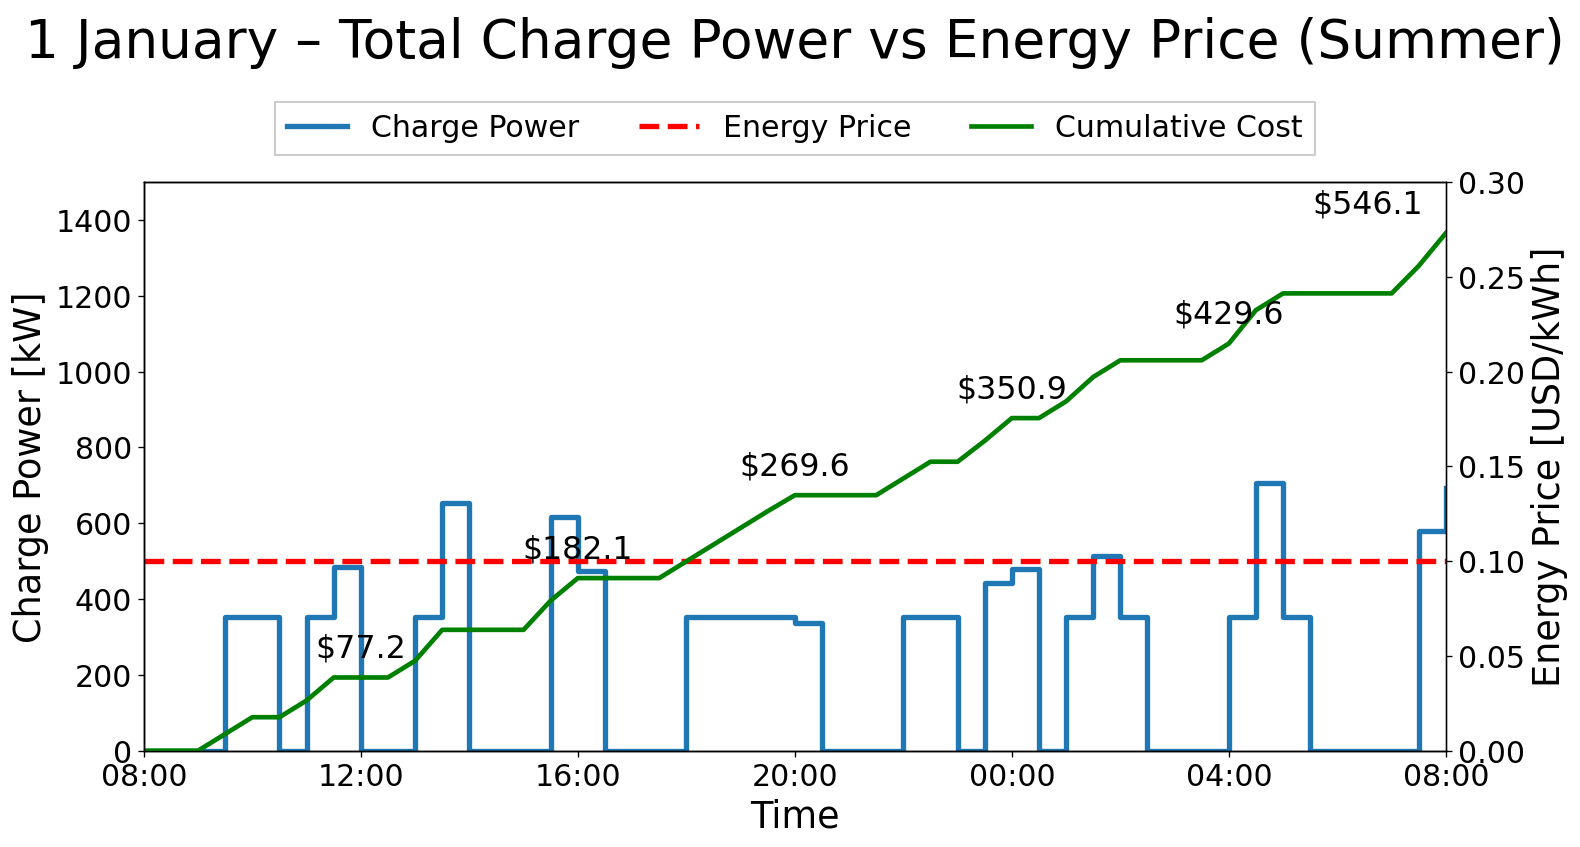
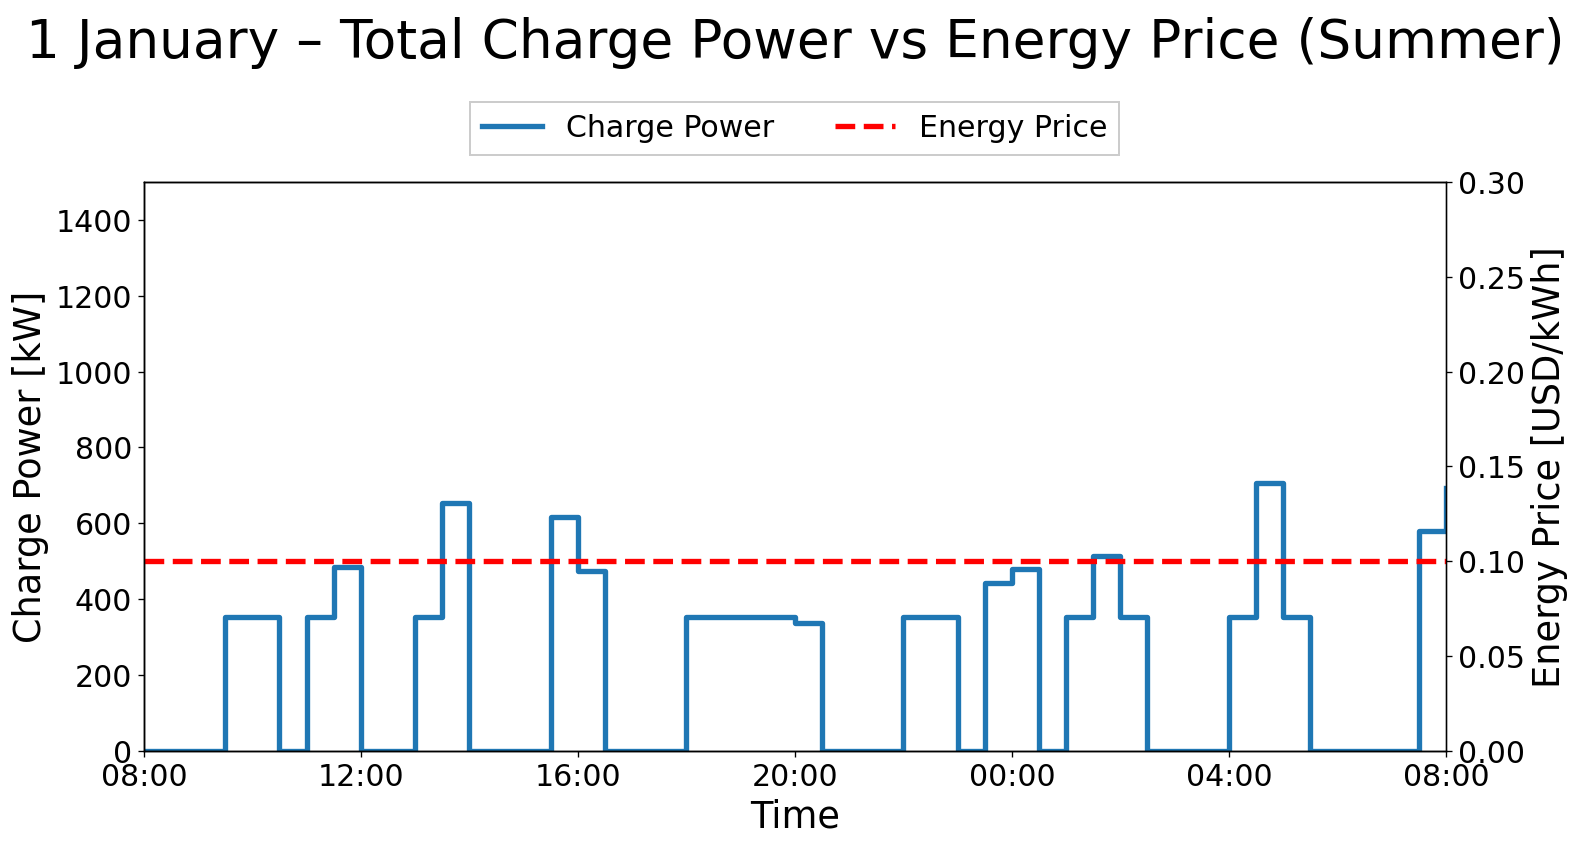
actualizacion json plotter

diff --git a/json_plotter.py b/json_plotter.py
@@ -504,9 +504,6 @@ class JSONPlotter:
                             .groupby("interval")["price"].mean()
                             .reindex(self.intervals).ffill().bfill().fillna(0.0))
 
-            incremental_cost = (p_day.values * price_day.values * float(self.delta_t))
-            cumulative_cost = np.cumsum(incremental_cost)
-
             import matplotlib.gridspec as gridspec
             fig = plt.figure(figsize=(14, 8))
             gs = gridspec.GridSpec(2, 1, height_ratios=[0.20, 0.80], hspace=0.08)
@@ -527,9 +524,6 @@ class JSONPlotter:
                     label="Charge Power", drawstyle="steps-post", color="C0")
             ax2.plot(self.intervals, price_day.values, linewidth=3.2, linestyle="--",
                     label="Energy Price", color="red")
-            ax3.plot(self.intervals, cumulative_cost, linewidth=2.8, color="green",
-                    label="Cumulative Cost")
-
             # Límites y márgenes
             ax1.set_ylim(0, 1500)
             ax2.set_ylim(0, 0.30)
@@ -573,24 +567,7 @@ class JSONPlotter:
             leg.get_frame().set_linewidth(1.2)
             leg.get_frame().set_facecolor("white")
 
-            # Anotar costo acumulado cada 4 horas (omitir PRIMER tick; último desplazado)
-            if ticks:
-                ticks_to_annotate = ticks[1:]  # omite primero (siempre 0)
-                for idx_t, tpos in enumerate(ticks_to_annotate):
-                    arr_idx = self.intervals.index(tpos)
-                    val = cumulative_cost[arr_idx]
-                    is_last = (idx_t == len(ticks_to_annotate) - 1)
-                    if is_last:
-                        ax3.annotate(f"${val:,.1f}",
-                                    xy=(tpos, cumulative_cost[arr_idx]),
-                                    xytext=(-14, 8), textcoords="offset points",
-                                    ha="right", va="bottom", fontsize=19, color="black")
-                    else:
-                        ax3.annotate(f"${val:,.1f}",
-                                    xy=(tpos, cumulative_cost[arr_idx]),
-                                    xytext=(0, 8), textcoords="offset points",
-                                    ha="center", va="bottom", fontsize=19, color="black")
-
+        
 
             month = self._rep_day_label(d)
             fig.savefig(
@@ -807,32 +784,81 @@ class JSONPlotter:
                 bottom_band = -12.0
                 y_min, y_max = bottom_band, bottom_band * 0.01
 
-                for idx, t in enumerate(self.intervals):
-                    x_start = idx * delta_t + 0.05
-                    x_end   = (idx + 1) * delta_t - 0.05
 
-                    # Safe checks: pandas .query with a name like 'interval' will raise
-                    # UndefinedVariableError if the column doesn't exist. Ensure the
-                    # DataFrames actually have the columns before querying.
+                                # ===== Barra de estados en banda negativa (CONTINUA) =====
+                colors = {'Travel': 'gold', 'Charging': 'blue', 'Parked': 'gray'}
+                handles_tasks, labels_tasks = [], []
+
+                Y_filtered = (
+                    self.df_Y.query("lhd == @lhd and day == @day and value >= 0.5")
+                    if (self.df_Y is not None and not self.df_Y.empty)
+                    else pd.DataFrame()
+                )
+
+                P_filtered = (
+                    self.df_P.query("lhd == @lhd and day == @day")
+                    if (self.df_P is not None and not self.df_P.empty)
+                    else pd.DataFrame()
+                )
+
+                bottom_band = -12.0
+                y_min, y_max = bottom_band, bottom_band * 0.01
+
+                # ---------- Determinar estado por intervalo ----------
+                states = []
+
+                for t in self.intervals:
                     is_traveling = False
                     if not Y_filtered.empty and 'interval' in Y_filtered.columns:
-                        is_traveling = (not Y_filtered.query("interval == @t").empty)
+                        is_traveling = not Y_filtered.query("interval == @t").empty
 
                     is_charging = False
-                    if is_electric and not P_filtered.empty and {'interval', 'value'}.issubset(P_filtered.columns):
-                        is_charging = (not P_filtered.query("interval == @t and value > 1").empty)
+                    if (
+                        is_electric
+                        and not P_filtered.empty
+                        and {'interval', 'value'}.issubset(P_filtered.columns)
+                    ):
+                        is_charging = not P_filtered.query(
+                            "interval == @t and value > 1"
+                        ).empty
 
                     if is_traveling:
-                        state = 'Travel'
+                        states.append('Travel')
                     elif is_charging:
-                        state = 'Charging'
+                        states.append('Charging')
                     else:
-                        state = 'Parked'
+                        states.append('Parked')
 
-                    h = ax1.fill_between([x_start, x_end], y_min, y_max, color=colors[state],
-                                        label=state if state not in labels_tasks else "")
+                # ---------- Agrupar tramos consecutivos ----------
+                segments = []
+                start_idx = 0
+                current_state = states[0]
+
+                for i in range(1, len(states)):
+                    if states[i] != current_state:
+                        segments.append((start_idx, i, current_state))
+                        start_idx = i
+                        current_state = states[i]
+
+                segments.append((start_idx, len(states), current_state))
+
+                # ---------- Dibujar bloques continuos ----------
+                for start, end, state in segments:
+                    x_start = start * delta_t
+                    x_end = end * delta_t
+
+                    h = ax1.fill_between(
+                        [x_start, x_end],
+                        y_min,
+                        y_max,
+                        color=colors[state],
+                        label=state if state not in labels_tasks else ""
+                    )
+
                     if state not in labels_tasks:
-                        handles_tasks.append(h); labels_tasks.append(state)
+                        handles_tasks.append(h)
+                        labels_tasks.append(state)
+
 
                 # ===== Sin grids =====
                 ax1.grid(False); ax2.grid(False)
